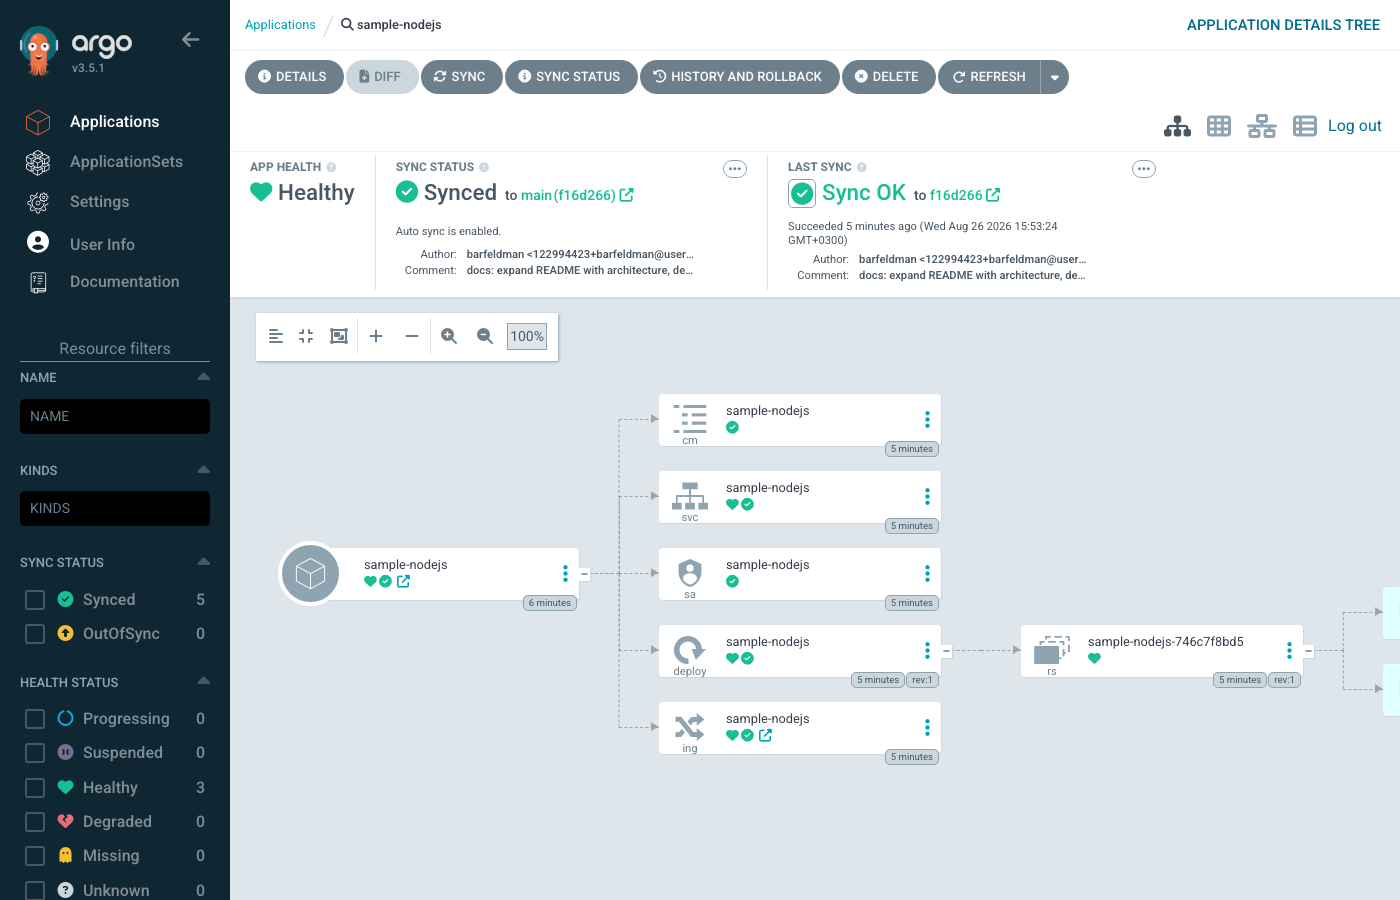
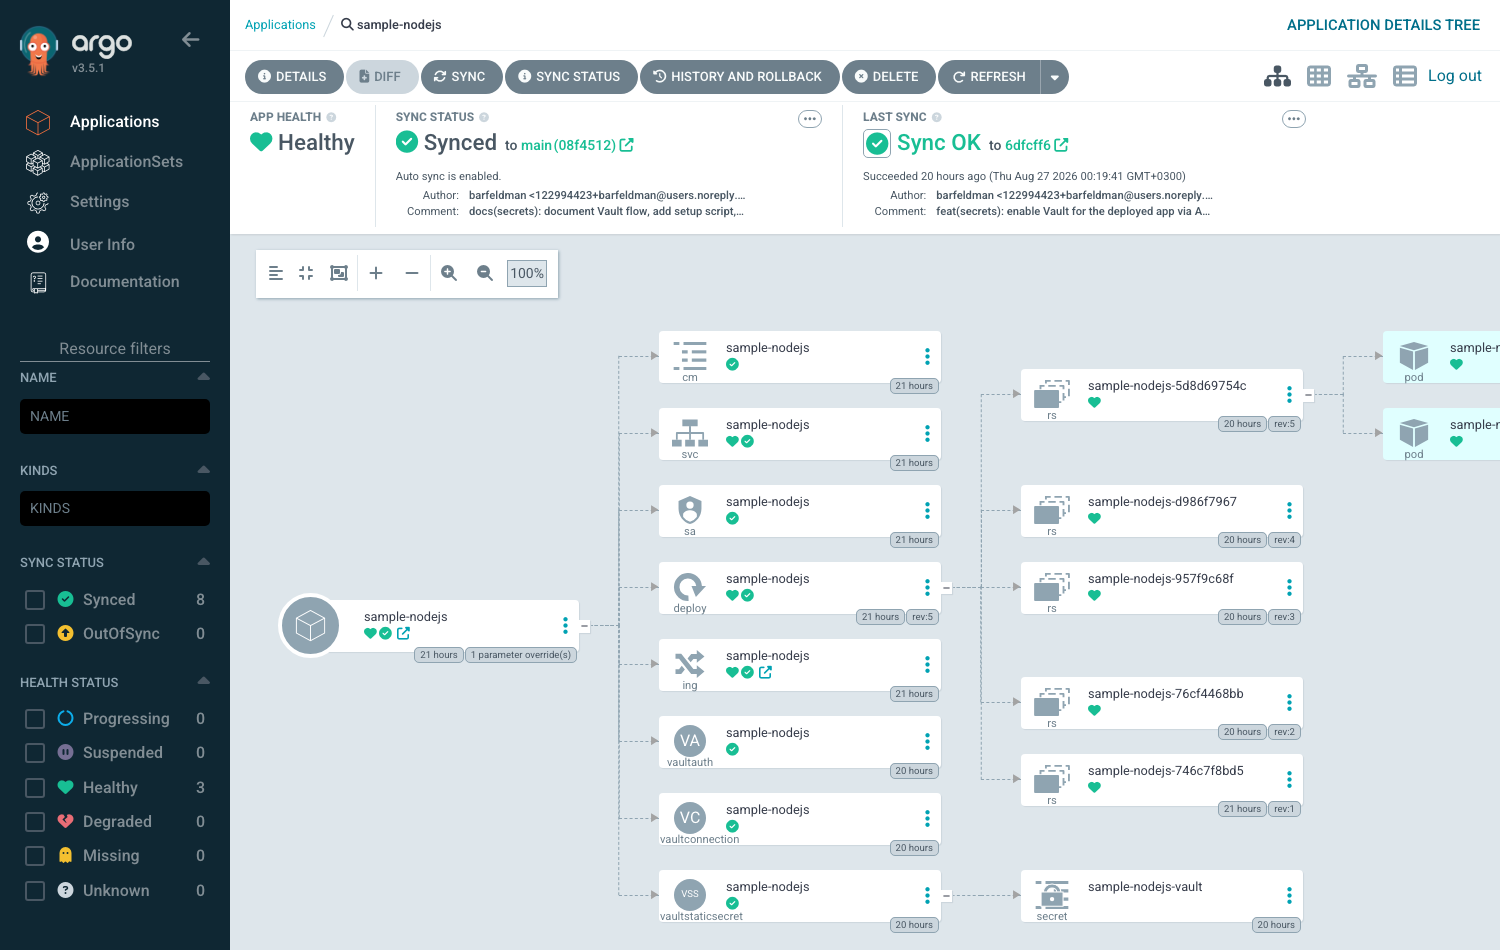
docs(secrets): show Vault in the pictures
- Re-capture ArgoCD tree; it now includes the Vault resources
  (vaultconnection, vaultauth, vaultstaticsecret -> synced Secret)
- Add Vault UI screenshot of the secret (Overview tab, value not shown)
- README: reference both in the Secrets and Proof sections

diff --git a/README.md b/README.md
@@ -110,7 +110,12 @@ changes, so rotation is a `vault kv put` away. All of this is gated behind
 `vault.enabled` in the chart: the Vault path and the auth role live in Git, the
 secret value never does. Setup is in
 [`vault/configure-vault.sh`](vault/configure-vault.sh) and there's an end-to-end
-trace in [`docs/proof/vault-secrets.txt`](docs/proof/vault-secrets.txt).
+trace in [`docs/proof/vault-secrets.txt`](docs/proof/vault-secrets.txt). Argo CD
+manages the Vault resources alongside the app (`vaultconnection`, `vaultauth` and
+`vaultstaticsecret` appear in the resource tree further down), and the secret
+itself lives in Vault:
+
+![Secret in Vault](docs/proof/vault-ui.png)
 
 The demo runs a single-node Vault that I initialised and unsealed by hand (the
 unseal keys stay in a git-ignored file). For real production I'd add auto-unseal
@@ -164,11 +169,13 @@ wired up: a `regcred` docker-config secret for pushing images, and a
 
 I didn't just template it and call it done. I stood the whole thing up on
 minikube and deployed through Argo CD, not with a manual `helm install`. Argo
-reported everything synced and healthy against commit `f16d266`, and the app
-answered 200 on every route through the nginx ingress. The screenshots and a full
-`kubectl` dump are in [`docs/proof/`](docs/proof/).
+reported everything synced and healthy, and the app answered 200 on every route
+through the nginx ingress. The resource tree below also includes the Vault
+resources (`vaultconnection`, `vaultauth`, `vaultstaticsecret`) that feed the app
+its secret. The screenshots and a full `kubectl` dump are in
+[`docs/proof/`](docs/proof/).
 
-| Argo CD | The app through the ingress |
+| Argo CD (app + Vault resources) | The app through the ingress |
 | --- | --- |
 | ![Argo CD](docs/proof/argocd-app-tree.png) | ![App](docs/proof/ingress-my-app.png) |
 
